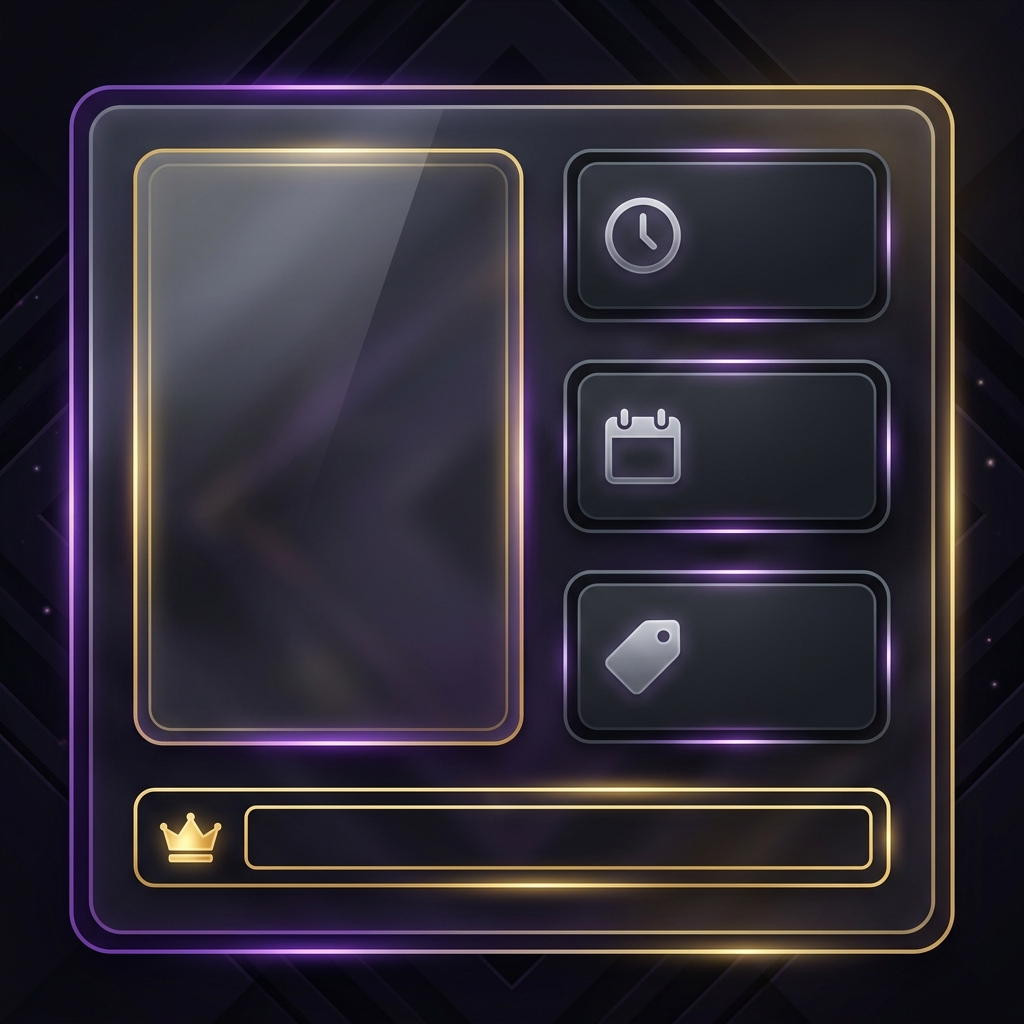
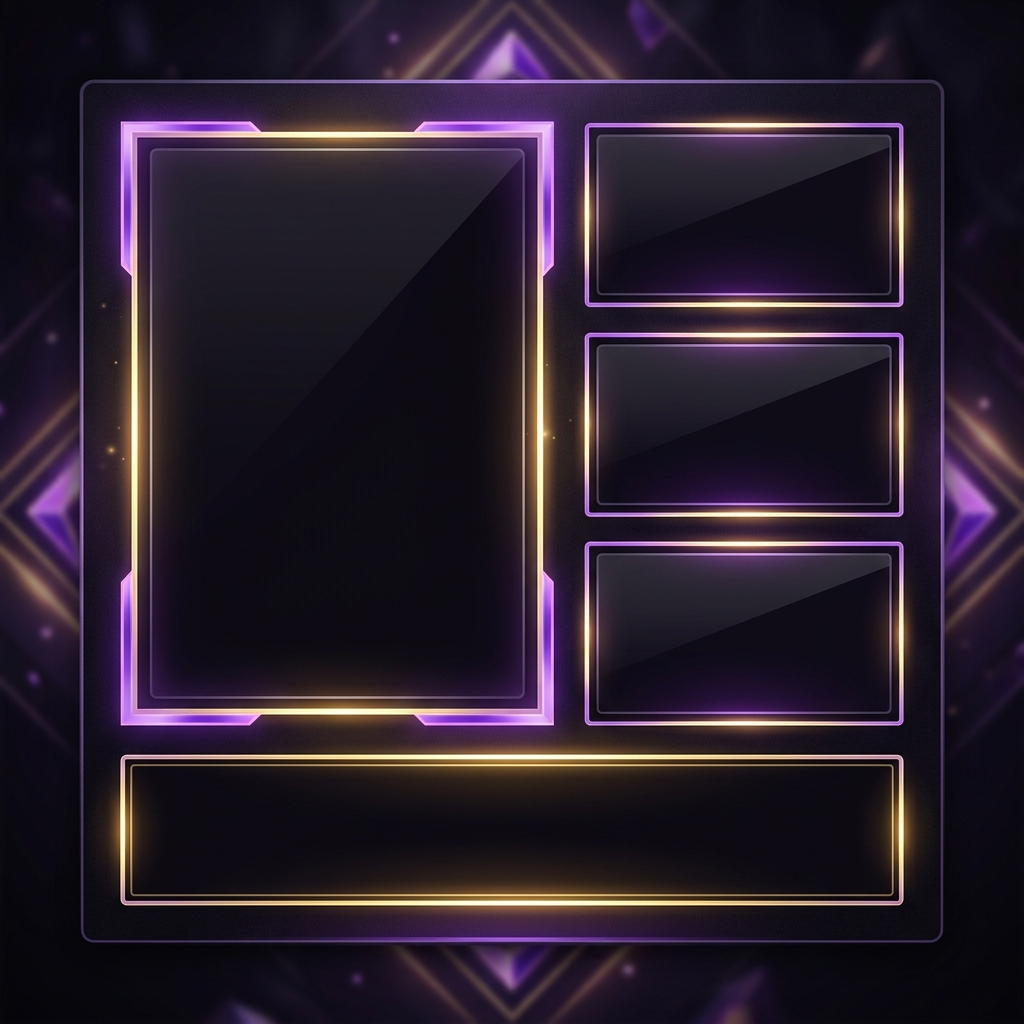
fix: profile card - reliable skin API, Turkish char support, clean template

diff --git a/commands/profil.js b/commands/profil.js
@@ -7,14 +7,14 @@ import path from 'path';
 import { Jimp, loadFont } from 'jimp';
 import { SANS_64_WHITE, SANS_32_WHITE, SANS_16_WHITE } from 'jimp/fonts';
 
-// Helper to draw a filled rectangle directly onto Jimp bitmap (pure-JS, robust)
+// ── Helper: Draw a filled rectangle directly onto Jimp bitmap ───────────────
 function drawRect(image, x, y, w, h, colorHex) {
   const r = (colorHex >> 24) & 0xFF;
   const g = (colorHex >> 16) & 0xFF;
   const b = (colorHex >> 8) & 0xFF;
   const a = colorHex & 0xFF;
-  
-  image.scan(x, y, w, h, function(xCoord, yCoord, idx) {
+
+  image.scan(x, y, w, h, function (xCoord, yCoord, idx) {
     this.bitmap.data[idx] = r;
     this.bitmap.data[idx + 1] = g;
     this.bitmap.data[idx + 2] = b;
@@ -22,15 +22,57 @@ function drawRect(image, x, y, w, h, colorHex) {
   });
 }
 
-// Local Turkish date formatter
+// ── Helper: Transliterate Turkish characters to ASCII ───────────────────────
+// Jimp bitmap fonts don't include ş, ı, ğ, ü, ö, ç, İ etc. This prevents "?" rendering.
+function toAscii(text) {
+  if (!text) return '';
+  return text
+    .replace(/ı/g, 'i').replace(/İ/g, 'I')
+    .replace(/ş/g, 's').replace(/Ş/g, 'S')
+    .replace(/ğ/g, 'g').replace(/Ğ/g, 'G')
+    .replace(/ü/g, 'u').replace(/Ü/g, 'U')
+    .replace(/ö/g, 'o').replace(/Ö/g, 'O')
+    .replace(/ç/g, 'c').replace(/Ç/g, 'C')
+    .replace(/â/g, 'a').replace(/Â/g, 'A')
+    .replace(/î/g, 'i').replace(/Î/g, 'I')
+    .replace(/û/g, 'u').replace(/Û/g, 'U');
+}
+
+// ── Helper: Local Turkish date formatter (already transliterated) ───────────
 function formatProfileDate(timestamp) {
   if (!timestamp) return 'Bilinmiyor';
   const date = new Date(timestamp);
   const months = [
-    'Ocak', 'Şubat', 'Mart', 'Nisan', 'Mayıs', 'Haziran',
-    'Temmuz', 'Ağustos', 'Eylül', 'Ekim', 'Kasım', 'Aralık'
+    'Ocak', 'Subat', 'Mart', 'Nisan', 'Mayis', 'Haziran',
+    'Temmuz', 'Agustos', 'Eylul', 'Ekim', 'Kasim', 'Aralik'
   ];
   return `${date.getDate()} ${months[date.getMonth()]} ${date.getFullYear()}`;
+}
+
+// ── Helper: Try multiple skin APIs with fallback ────────────────────────────
+async function fetchSkinImage(uuid, mcNick) {
+  // List of skin render APIs to try in order
+  const skinApis = [
+    { name: 'mc-heads', url: `https://mc-heads.net/body/${encodeURIComponent(mcNick)}/600` },
+    { name: 'minotar', url: `https://minotar.net/body/${encodeURIComponent(mcNick)}/300.png` },
+    { name: 'crafatar', url: `https://crafatar.com/renders/body/${uuid}?overlay&size=4` },
+  ];
+
+  for (const api of skinApis) {
+    try {
+      logger.debug(`Trying skin API: ${api.name} for ${mcNick}`);
+      const resp = await axios.get(api.url, { responseType: 'arraybuffer', timeout: 6000 });
+      if (resp.status === 200 && resp.data && resp.data.length > 100) {
+        logger.info(`Skin fetched from ${api.name} for ${mcNick}`);
+        return Buffer.from(resp.data);
+      }
+    } catch (err) {
+      logger.warn(`Skin API ${api.name} failed for ${mcNick}: ${err.message}`);
+    }
+  }
+
+  logger.warn(`All skin APIs failed for ${mcNick}, card will render without skin`);
+  return null;
 }
 
 export default {
@@ -138,7 +180,7 @@ export default {
         try {
           const member = await guild.members.fetch(linkedUser.id);
           isBooster = !!member.premiumSince;
-          
+
           // Get highest non-default role name
           const roles = member.roles.cache
             .filter((r) => r.name !== '@everyone')
@@ -158,7 +200,8 @@ export default {
       ).length || 0;
       const isConsistent = recentSessionsCount >= 3 || playtimeHours > 10;
 
-      // 4. Draw Premium Image Card using Jimp
+      // ─── 4. Draw Premium Image Card using Jimp ───────────────────────────
+
       const TEMPLATE_PATH = path.resolve('./assets/profile_bg.png');
       logger.info(`Rendering profile card for ${mcNick} using template: ${TEMPLATE_PATH}`);
 
@@ -167,66 +210,129 @@ export default {
         imageCard = await Jimp.read(TEMPLATE_PATH);
       } catch (err) {
         logger.error(`Failed to load profile background template: ${err.message}`);
-        // Fallback to text embed if background image is missing
         const fallbackEmbed = embeds.profileEmbed(profileData, uuid, linkedUser, isBooster, profileData.isOnline);
         return await interaction.editReply({ embeds: [fallbackEmbed] });
       }
 
-      // A. Composite 3D Minecraft Skin Render (placed inside left frame)
-      try {
-        const skinUrl = `https://crafatar.com/renders/body/${uuid}?overlay`;
-        const skinResponse = await axios.get(skinUrl, { responseType: 'arraybuffer', timeout: 5000 });
-        const skinBuffer = Buffer.from(skinResponse.data);
-        const skinImg = await Jimp.read(skinBuffer);
-        
-        // Resize and blit skin to base template (Skin position: X: 110, Y: 180)
-        skinImg.resize({ w: 320, h: 640 });
-        imageCard.blit(skinImg, 80, 160);
-      } catch (err) {
-        logger.warn(`Could not render 3D skin for ${mcNick}: ${err.message}`);
+      // Get template dimensions for coordinate calculations
+      const tW = imageCard.width;
+      const tH = imageCard.height;
+      logger.debug(`Template dimensions: ${tW}x${tH}`);
+
+      // ── A. Composite Minecraft Skin Render (left frame area) ──────────
+
+      const skinBuffer = await fetchSkinImage(uuid, mcNick);
+      if (skinBuffer) {
+        try {
+          const skinImg = await Jimp.read(skinBuffer);
+
+          // Scale skin to fit the left glass frame (~40% of template width, ~55% of height)
+          const skinTargetW = Math.round(tW * 0.28);
+          const skinTargetH = Math.round(tH * 0.50);
+          skinImg.resize({ w: skinTargetW, h: skinTargetH });
+
+          // Center skin inside the left glass frame
+          const skinX = Math.round(tW * 0.09) + Math.round((tW * 0.32 - skinTargetW) / 2);
+          const skinY = Math.round(tH * 0.12) + Math.round((tH * 0.55 - skinTargetH) / 2);
+          imageCard.composite(skinImg, skinX, skinY);
+        } catch (err) {
+          logger.warn(`Failed to composite skin image for ${mcNick}: ${err.message}`);
+        }
       }
 
-      // B. Load Fonts
+      // ── B. Load Fonts ─────────────────────────────────────────────────
+
       const font64 = await loadFont(SANS_64_WHITE);
       const font32 = await loadFont(SANS_32_WHITE);
       const font16 = await loadFont(SANS_16_WHITE);
 
-      // C. Print Nickname (Right top, X: 480, Y: 155)
+      // ── C. Right side panels — coordinates relative to template ────────
+      // The template has 3 glass panels on the right side (~55% to ~92% width, stacked vertically)
+
+      const rightPanelX = Math.round(tW * 0.56);     // Left edge of right panels
+      const rightTextX  = Math.round(tW * 0.58);      // Text indent inside panels
+
+      // Panel 1: Player Name + Badges (top right panel, ~10% to ~32% height)
+      const panel1Y = Math.round(tH * 0.12);
+
+      // Print MC Nick
+      const nickSafe = toAscii(mcNick);
       imageCard.print({
-        font: mcNick.length > 12 ? font32 : font64,
-        x: 480,
-        y: 155,
-        text: mcNick
+        font: nickSafe.length > 12 ? font32 : font64,
+        x: rightTextX,
+        y: panel1Y + Math.round(tH * 0.03),
+        text: nickSafe
       });
 
-      // D. Draw Badges (Purple Booster and Green Istikrarli, below name)
-      let badgeX = 480;
+      // Draw Badges below name
+      let badgeX = rightTextX;
+      const badgeY = panel1Y + Math.round(tH * 0.12);
+
       if (isBooster) {
-        // Draw Purple slot (Booster)
-        drawRect(imageCard, badgeX, 245, 170, 42, 0x7B1FA2FF);
-        imageCard.print({ font: font16, x: badgeX + 35, y: 255, text: 'Booster' });
-        badgeX += 190;
+        drawRect(imageCard, badgeX, badgeY, 150, 36, 0x7B1FA2CC);
+        imageCard.print({ font: font16, x: badgeX + 30, y: badgeY + 10, text: 'BOOSTER' });
+        badgeX += 165;
       }
       if (isConsistent) {
-        // Draw Green slot (Istikrarli)
-        drawRect(imageCard, badgeX, 245, 170, 42, 0x2E7D32FF);
-        imageCard.print({ font: font16, x: badgeX + 30, y: 255, text: 'Istikrarli' });
+        drawRect(imageCard, badgeX, badgeY, 160, 36, 0x2E7D32CC);
+        imageCard.print({ font: font16, x: badgeX + 22, y: badgeY + 10, text: 'ISTIKRARLI' });
       }
 
-      // E. Print Main Statistics
-      // ⏱️ Toplam Oyun Süresi (X: 520, Y: 350)
-      imageCard.print({ font: font16, x: 535, y: 350, text: 'Toplam Oyun Suresi:' });
-      imageCard.print({ font: font32, x: 535, y: 375, text: `${playtimeHours} Saat` });
+      // Panel 2: Stats — Playtime + Join Date (middle right panel, ~35% to ~56% height)
+      const panel2Y = Math.round(tH * 0.36);
 
-      // 📅 Sunucuya Katılım (X: 520, Y: 460)
-      imageCard.print({ font: font16, x: 535, y: 465, text: 'Sunucuya Katilim:' });
-      imageCard.print({ font: font32, x: 535, y: 490, text: formatProfileDate(profileData.firstSeen || Date.now()) });
+      // Playtime
+      imageCard.print({ font: font16, x: rightTextX, y: panel2Y + Math.round(tH * 0.03), text: 'Toplam Oyun Suresi' });
+      imageCard.print({
+        font: font32,
+        x: rightTextX,
+        y: panel2Y + Math.round(tH * 0.07),
+        text: `${playtimeHours} Saat`
+      });
 
-      // 🛡️ Aktif Rol (X: 520, Y: 580)
-      imageCard.print({ font: font16, x: 535, y: 580, text: 'Aktif Rol:' });
-      imageCard.print({ font: font32, x: 535, y: 605, text: memberRoleName });
+      // Join date
+      imageCard.print({
+        font: font16,
+        x: rightTextX,
+        y: panel2Y + Math.round(tH * 0.14),
+        text: 'Sunucuya Katilim'
+      });
+      imageCard.print({
+        font: font32,
+        x: rightTextX,
+        y: panel2Y + Math.round(tH * 0.18),
+        text: formatProfileDate(profileData.firstSeen || Date.now())
+      });
 
-      // F. Print VIP & Destekçi Box Details (At the bottom, X: 520, Y: 720)
+      // Panel 3: Active Role (bottom right panel, ~59% to ~72% height)
+      const panel3Y = Math.round(tH * 0.60);
+
+      imageCard.print({
+        font: font16,
+        x: rightTextX,
+        y: panel3Y + Math.round(tH * 0.03),
+        text: 'Aktif Rol'
+      });
+      imageCard.print({
+        font: font32,
+        x: rightTextX,
+        y: panel3Y + Math.round(tH * 0.07),
+        text: toAscii(memberRoleName)
+      });
+
+      // Online status indicator
+      if (profileData.isOnline) {
+        const dotX = rightTextX;
+        const dotY = panel3Y + Math.round(tH * 0.15);
+        drawRect(imageCard, dotX, dotY, 14, 14, 0x00E676FF);
+        imageCard.print({ font: font16, x: dotX + 20, y: dotY, text: 'Su An Oyunda' });
+      }
+
+      // ── D. Bottom Banner — VIP & Destekci ──────────────────────────────
+      // Bottom gold banner spans full width (~78% to ~93% height)
+      const bottomY = Math.round(tH * 0.79);
+      const bottomTextX = Math.round(tW * 0.10);
+
       const timedRolesData = await PanelAPI.getTimedRoles();
       const rolesList = timedRolesData.roles || [];
       const userVip = linkedUser ? rolesList.find((r) => r.user_id === linkedUser.id) : null;
@@ -250,33 +356,59 @@ export default {
         const totalSecsLeft = expiryTimestamp - Math.floor(Date.now() / 1000);
         const daysLeft = Math.max(0, Math.ceil(totalSecsLeft / 86400));
 
-        // Print VIP Rank Info
-        imageCard.print({ font: font32, x: 535, y: 730, text: `VIP STATUS: ${vipRoleName.toUpperCase()}` });
-        
-        // Draw beautiful golden progress bar (W: 380, H: 12)
-        // Background track (dark grey)
-        drawRect(imageCard, 535, 785, 380, 12, 0x3E3E3EFF);
-        
-        // Gold fill track
-        const barFillWidth = Math.min(380, Math.max(0, Math.round((daysLeft / 30) * 380)));
-        if (barFillWidth > 0) {
-          drawRect(imageCard, 535, 785, barFillWidth, 12, 0xD4AF37FF);
+        // VIP Title
+        imageCard.print({
+          font: font32,
+          x: bottomTextX,
+          y: bottomY + Math.round(tH * 0.01),
+          text: `VIP: ${toAscii(vipRoleName).toUpperCase()}`
+        });
+
+        // Progress bar
+        const barX = bottomTextX;
+        const barY = bottomY + Math.round(tH * 0.06);
+        const barW = Math.round(tW * 0.80);
+        const barH = 10;
+
+        drawRect(imageCard, barX, barY, barW, barH, 0x3E3E3EFF);
+        const barFill = Math.min(barW, Math.max(0, Math.round((daysLeft / 30) * barW)));
+        if (barFill > 0) {
+          drawRect(imageCard, barX, barY, barFill, barH, 0xD4AF37FF);
         }
 
-        // Days left text
-        imageCard.print({ font: font16, x: 535, y: 812, text: `Kalan VIP Suresi: ${daysLeft} Gun` });
+        // Days remaining
+        imageCard.print({
+          font: font16,
+          x: bottomTextX,
+          y: bottomY + Math.round(tH * 0.09),
+          text: `Kalan VIP Suresi: ${daysLeft} Gun`
+        });
       } else {
-        // Default guest / support info inside box
-        imageCard.print({ font: font32, x: 535, y: 725, text: 'VIP & DESTEKCI' });
-        imageCard.print({ font: font16, x: 535, y: 775, text: 'Destekci olmak ve VIP ayricaliklarindan' });
-        imageCard.print({ font: font16, x: 535, y: 805, text: 'yararlanmak icin yetkililerle gorusun!' });
+        imageCard.print({
+          font: font32,
+          x: bottomTextX,
+          y: bottomY + Math.round(tH * 0.01),
+          text: 'VIP & DESTEKCI'
+        });
+        imageCard.print({
+          font: font16,
+          x: bottomTextX,
+          y: bottomY + Math.round(tH * 0.06),
+          text: 'Destekci olmak ve VIP ayricaliklarindan'
+        });
+        imageCard.print({
+          font: font16,
+          x: bottomTextX,
+          y: bottomY + Math.round(tH * 0.09),
+          text: 'yararlanmak icin yetkililerle gorusun!'
+        });
       }
 
-      // G. Render image as Buffer and send to Discord
+      // ── E. Render final image and send to Discord ─────────────────────
+
       const imageBuffer = await imageCard.getBuffer('image/png');
       const attachment = new AttachmentBuilder(imageBuffer, { name: `${mcNick}_profile.png` });
 
-      // Send the high-fidelity composite PNG image directly
       await interaction.editReply({
         files: [attachment],
         embeds: [],